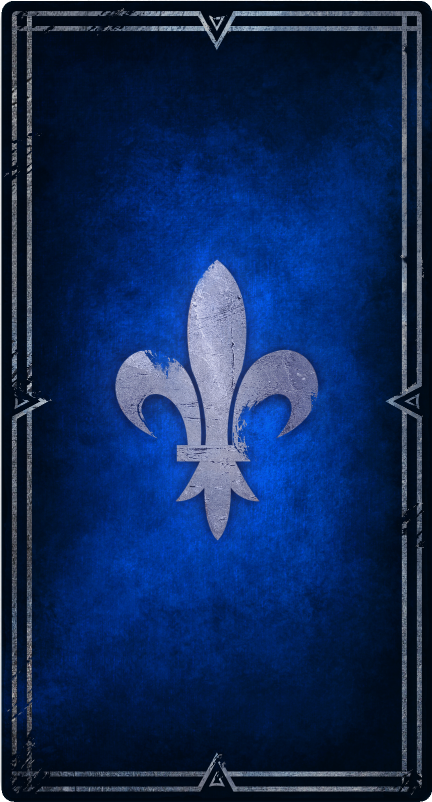
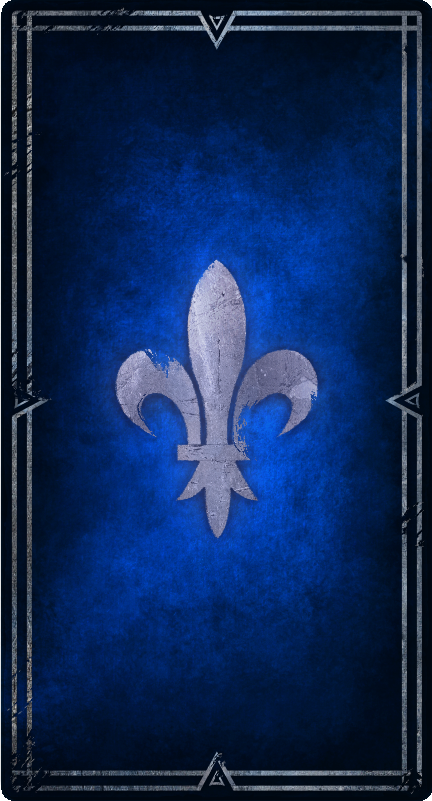
add ours card Design Nilfgaard. Monsters, Scoyataely and Fixed card northerm Realms

diff --git a/app/assets/js/modules/db.js b/app/assets/js/modules/db.js
@@ -38,7 +38,7 @@ function dbFractionLocal() {
             color: "#008300",
             colorText: "#04C100",
             logo: "url(assets/img/scoyataely/logoScoyataely.png)",
-            bgBack: "url(assets/img/monsters/bgCardMonsters.png)",
+            bgBack: "url(assets/img/scoyataely/bgCardScoyataely.png)",
             bg: "url(assets/img/scoyataely/backgroundScoyataely.jpg)"
         },
 
